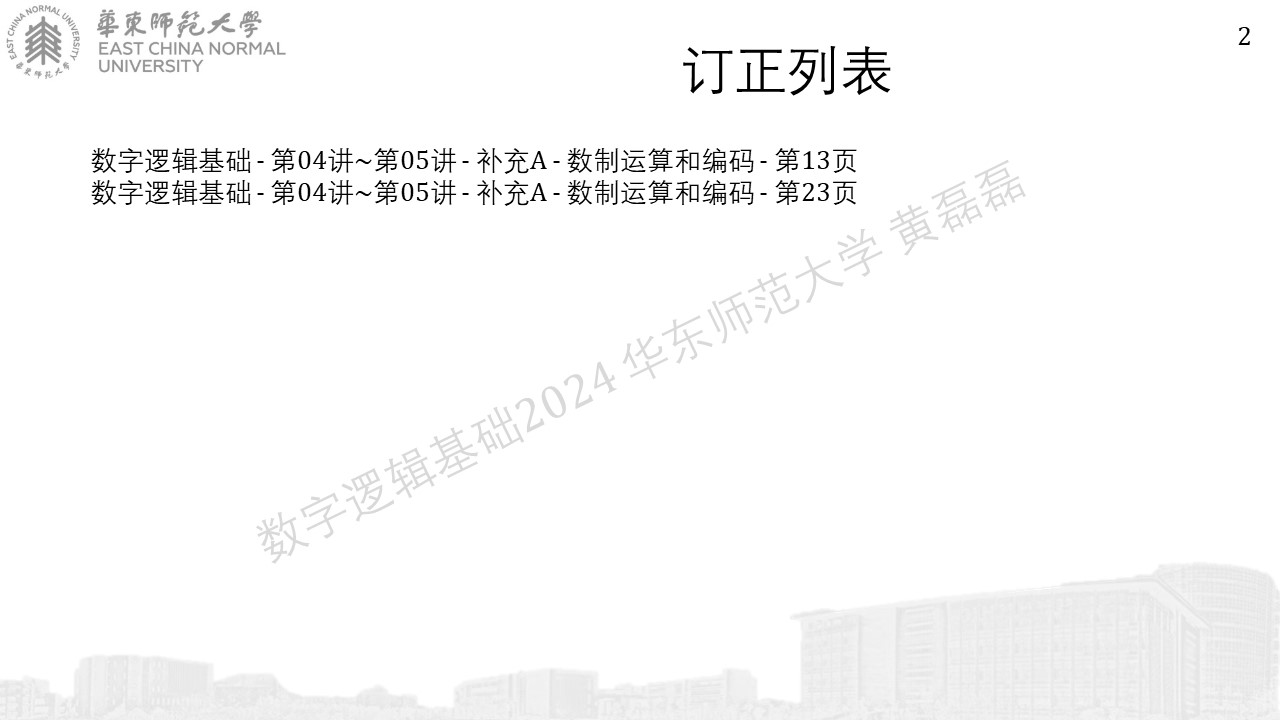
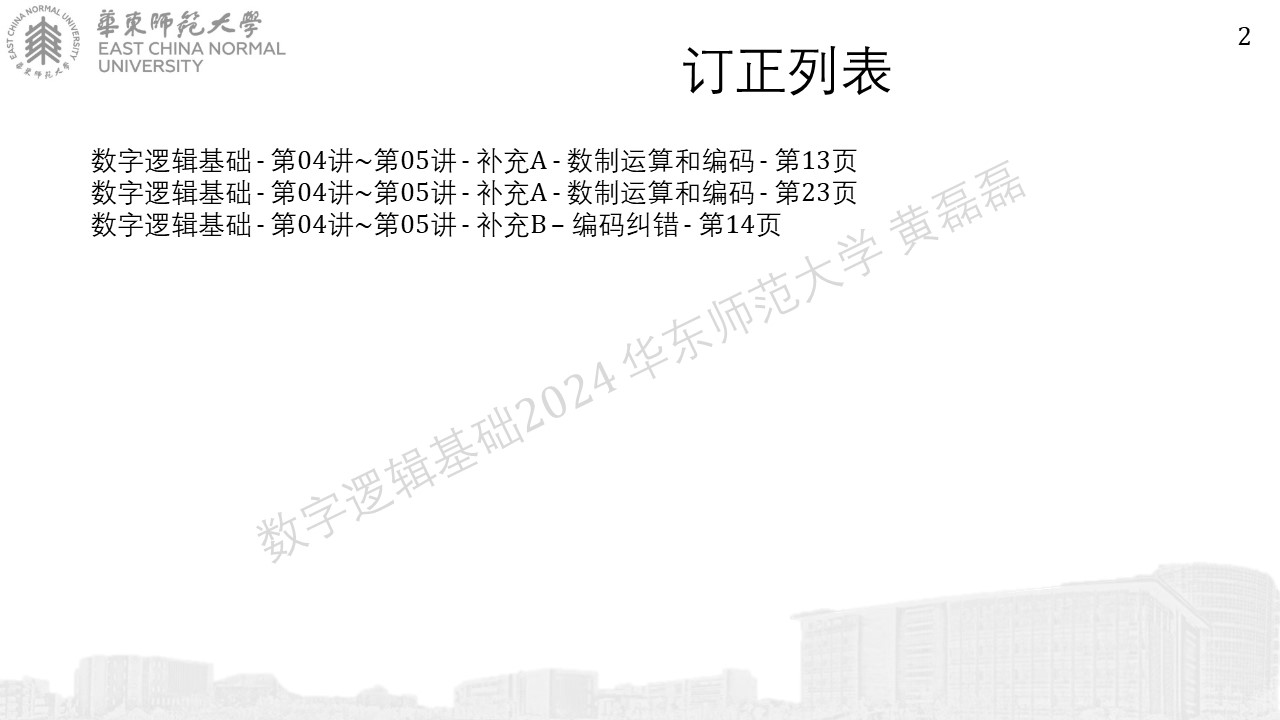
6th lecture

Changed region(s): [[0.0625, 0.275, 0.625, 0.3361]]

diff --git a/source/数字逻辑基础 - 第04讲~第05讲 - 补充B - 编码纠错/index.rst b/source/数字逻辑基础 - 第04讲~第05讲 - 补充B - 编码纠错/index.rst
@@ -1,42 +1,56 @@
+
 .. -----------------------------------------------------------------------------
    ..
    ..  Filename       : index.rst
    ..  Author         : Huang Leilei
    ..  Status         : phase 000
    ..  Created        : 2024-09-10
-   ..  Description    : description about 第02讲 - 逻辑代数- 基本定理
+   ..  Description    : description about 第04讲~第05讲 - 补充B - 编码纠错
    ..
 .. -----------------------------------------------------------------------------
 
-第02讲 - 逻辑代数 - 基本定理
+第04讲~第05讲 - 补充B - 编码纠错
 --------------------------------------------------------------------------------
 
 .. image:: 幻灯片1.JPG
 
-基本公式
+基本概念
 ........................................
 .. image:: 幻灯片2.JPG
 .. image:: 幻灯片3.JPG
+
+奇偶校验码
+........................................
 .. image:: 幻灯片4.JPG
 .. image:: 幻灯片5.JPG
-
-常用等式
-........................................
 .. image:: 幻灯片6.JPG
 .. image:: 幻灯片7.JPG
-.. image:: 幻灯片8.JPG
 
-基本定理
+汉明码
 ........................................
+.. image:: 幻灯片8.JPG
 .. image:: 幻灯片9.JPG
 .. image:: 幻灯片10.JPG
-
-学生建议：下面两张PPT讲慢点，多分析一下，具体怎么反演和对偶
-
 .. image:: 幻灯片11.JPG
 .. image:: 幻灯片12.JPG
 .. image:: 幻灯片13.JPG
 .. image:: 幻灯片14.JPG
 .. image:: 幻灯片15.JPG
+
+BCH码
+........................................
 .. image:: 幻灯片16.JPG
 .. image:: 幻灯片17.JPG
+.. image:: 幻灯片18.JPG
+.. image:: 幻灯片19.JPG
+.. image:: 幻灯片20.JPG
+.. image:: 幻灯片21.JPG
+.. image:: 幻灯片22.JPG
+.. image:: 幻灯片23.JPG
+.. image:: 幻灯片24.JPG
+.. image:: 幻灯片25.JPG
+
+CRC码
+........................................
+.. image:: 幻灯片26.JPG
+.. image:: 幻灯片27.JPG

diff --git a/source/数字逻辑基础 - 第05讲的修订与补充/index.rst b/source/数字逻辑基础 - 第05讲的修订与补充/index.rst
@@ -4,35 +4,23 @@
    ..  Author         : Huang Leilei
    ..  Status         : phase 000
    ..  Created        : 2024-09-10
-   ..  Description    : description about 第02讲 - 逻辑代数- 基本定理
+   ..  Description    : description about 第05讲的修订与补充
    ..
 .. -----------------------------------------------------------------------------
 
-第02讲 - 逻辑代数 - 基本定理
+第05讲的修订与补充
 --------------------------------------------------------------------------------
 
 .. image:: 幻灯片1.JPG
-
-基本公式
-........................................
 .. image:: 幻灯片2.JPG
 .. image:: 幻灯片3.JPG
 .. image:: 幻灯片4.JPG
 .. image:: 幻灯片5.JPG
-
-常用等式
-........................................
 .. image:: 幻灯片6.JPG
 .. image:: 幻灯片7.JPG
 .. image:: 幻灯片8.JPG
-
-基本定理
-........................................
 .. image:: 幻灯片9.JPG
 .. image:: 幻灯片10.JPG
-
-学生建议：下面两张PPT讲慢点，多分析一下，具体怎么反演和对偶
-
 .. image:: 幻灯片11.JPG
 .. image:: 幻灯片12.JPG
 .. image:: 幻灯片13.JPG
@@ -40,3 +28,13 @@
 .. image:: 幻灯片15.JPG
 .. image:: 幻灯片16.JPG
 .. image:: 幻灯片17.JPG
+.. image:: 幻灯片18.JPG
+.. image:: 幻灯片19.JPG
+.. image:: 幻灯片20.JPG
+.. image:: 幻灯片21.JPG
+.. image:: 幻灯片22.JPG
+.. image:: 幻灯片23.JPG
+.. image:: 幻灯片24.JPG
+.. image:: 幻灯片25.JPG
+.. image:: 幻灯片26.JPG
+.. image:: 幻灯片27.JPG

diff --git a/source/index.rst b/source/index.rst
@@ -3,7 +3,7 @@
    ..  Filename       : index.rst
    ..  Author         : Huang Leilei
    ..  Status         : phase 000
-   ..  Created        : 2023-09-08
+   ..  Created        : 2024-09-10
    ..  Description    : description about fundamentals of digital logic
    ..
 .. -----------------------------------------------------------------------------
@@ -23,6 +23,7 @@
    数字逻辑基础 - 第03讲 - 逻辑代数 - 标准表达形式/index
    数字逻辑基础 - 第04讲 - 逻辑代数 - 逻辑化简/index
    数字逻辑基础 - 第04讲~第05讲 - 补充A - 数制运算和编码/index
+   数字逻辑基础 - 第04讲~第05讲 - 补充B - 编码纠错/index
    数字逻辑基础 - 第05讲 - 组合逻辑 - 电路的分析/index
 
 
@@ -46,6 +47,7 @@
    数字逻辑基础 - 第02讲的修订与补充/index
    数字逻辑基础 - 第03讲的修订与补充/index
    数字逻辑基础 - 第04讲~第05讲的修订与补充/index
+   数字逻辑基础 - 第05讲的修订与补充/index
 
 
 往年课件

diff --git a/source/数字逻辑基础 - 第04讲~第05讲的修订与补充/index.rst b/source/数字逻辑基础 - 第04讲~第05讲的修订与补充/index.rst
@@ -3,7 +3,7 @@
    ..  Filename       : index.rst
    ..  Author         : Huang Leilei
    ..  Status         : phase 000
-   ..  Created        : 2023-09-20
+   ..  Created        : 2024-09-10
    ..  Description    : description about 第04讲~第05讲的修订与补充
    ..
 .. -----------------------------------------------------------------------------
@@ -19,3 +19,6 @@
 .. image:: 幻灯片6.JPG
 .. image:: 幻灯片7.JPG
 .. image:: 幻灯片8.JPG
+.. image:: 幻灯片9.JPG
+.. image:: 幻灯片10.JPG
+.. image:: 幻灯片11.JPG

diff --git a/source/数字逻辑基础 - 第04讲~第05讲 - 补充A - 数制运算和编码/index.rst b/source/数字逻辑基础 - 第04讲~第05讲 - 补充A - 数制运算和编码/index.rst
@@ -4,7 +4,7 @@
    ..  Filename       : index.rst
    ..  Author         : Huang Leilei
    ..  Status         : phase 000
-   ..  Created        : 2024-09-20
+   ..  Created        : 2024-09-10
    ..  Description    : description about 第04讲~第05讲 - 补充A - 数制运算和编码
    ..
 .. -----------------------------------------------------------------------------

diff --git a/source/数字逻辑基础 - 第04讲 - 逻辑代数 - 逻辑化简/index.rst b/source/数字逻辑基础 - 第04讲 - 逻辑代数 - 逻辑化简/index.rst
@@ -3,7 +3,7 @@
    ..  Filename       : index.rst
    ..  Author         : Huang Leilei
    ..  Status         : phase 000
-   ..  Created        : 2024-09-20
+   ..  Created        : 2024-09-10
    ..  Description    : description about 第04讲 - 逻辑代数 - 逻辑化简
    ..
 .. -----------------------------------------------------------------------------

diff --git a/source/数字逻辑基础 - 第05讲 - 组合逻辑 - 电路的分析/index.rst b/source/数字逻辑基础 - 第05讲 - 组合逻辑 - 电路的分析/index.rst
@@ -3,7 +3,7 @@
    ..  Filename       : index.rst
    ..  Author         : Huang Leilei
    ..  Status         : phase 000
-   ..  Created        : 2024-09-20
+   ..  Created        : 2024-09-10
    ..  Description    : description about 第04讲 - 逻辑代数 - 逻辑化简
    ..
 .. -----------------------------------------------------------------------------

diff --git a/source/数字逻辑基础 - 第01讲的修订与补充/index.rst b/source/数字逻辑基础 - 第01讲的修订与补充/index.rst
@@ -3,7 +3,7 @@
    ..  Filename       : index.rst
    ..  Author         : Huang Leilei
    ..  Status         : phase 000
-   ..  Created        : 2024-09-20
+   ..  Created        : 2024-09-10
    ..  Description    : description about 第01讲的修订与补充
    ..
 .. -----------------------------------------------------------------------------

diff --git a/source/数字逻辑基础 - 第02讲的修订与补充/index.rst b/source/数字逻辑基础 - 第02讲的修订与补充/index.rst
@@ -3,7 +3,7 @@
    ..  Filename       : index.rst
    ..  Author         : Huang Leilei
    ..  Status         : phase 000
-   ..  Created        : 2024-09-20
+   ..  Created        : 2024-09-10
    ..  Description    : description about 第02讲的修订与补充
    ..
 .. -----------------------------------------------------------------------------

diff --git a/source/数字逻辑基础 - 第03讲的修订与补充/index.rst b/source/数字逻辑基础 - 第03讲的修订与补充/index.rst
@@ -3,7 +3,7 @@
    ..  Filename       : index.rst
    ..  Author         : Huang Leilei
    ..  Status         : phase 000
-   ..  Created        : 2023-09-20
+   ..  Created        : 2024-09-10
    ..  Description    : description about 第03讲的修订与补充
    ..
 .. -----------------------------------------------------------------------------

diff --git a/source/数字逻辑基础 - 第01周习题的讲解/index.rst b/source/数字逻辑基础 - 第01周习题的讲解/index.rst
@@ -3,7 +3,7 @@
    ..  Filename       : index.rst
    ..  Author         : Huang Leilei
    ..  Status         : phase 000
-   ..  Created        : 2024-09-20
+   ..  Created        : 2024-09-10
    ..  Description    : description about 第01周习题的讲解
    ..
 .. -----------------------------------------------------------------------------

diff --git a/source/数字逻辑基础 - 第02周习题的讲解/index.rst b/source/数字逻辑基础 - 第02周习题的讲解/index.rst
@@ -3,7 +3,7 @@
    ..  Filename       : index.rst
    ..  Author         : Huang Leilei
    ..  Status         : phase 000
-   ..  Created        : 2024-09-20
+   ..  Created        : 2024-09-10
    ..  Description    : description about 第01周习题的讲解
    ..
 .. -----------------------------------------------------------------------------
